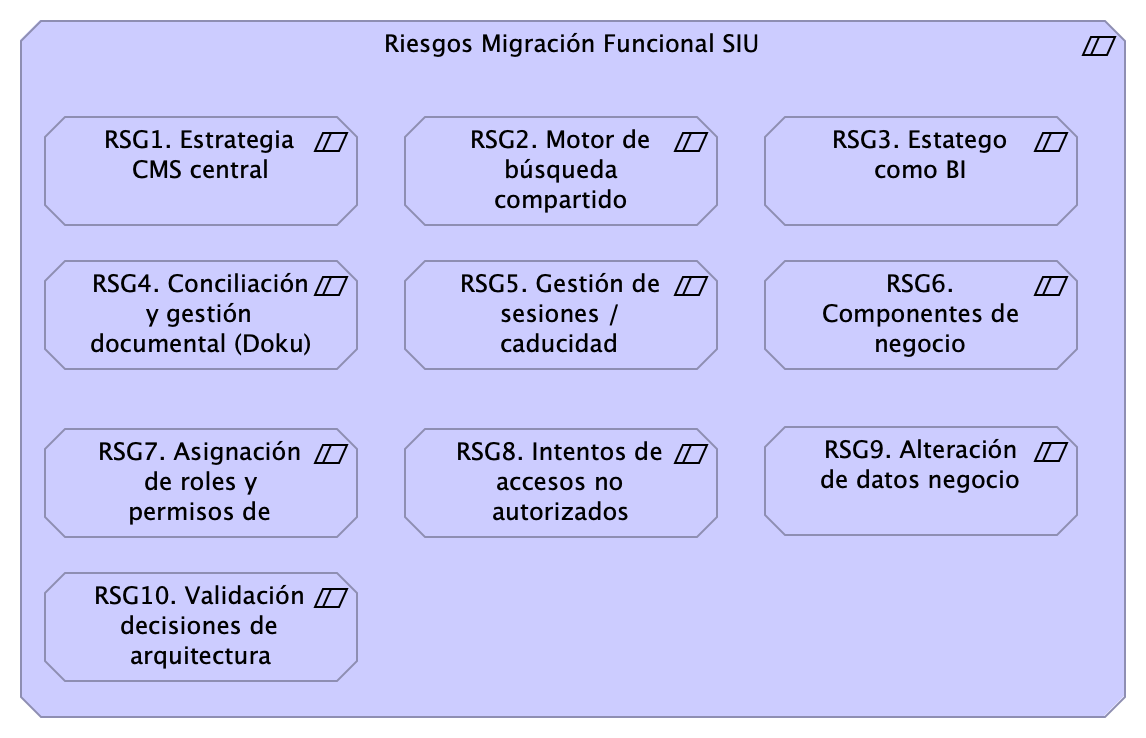
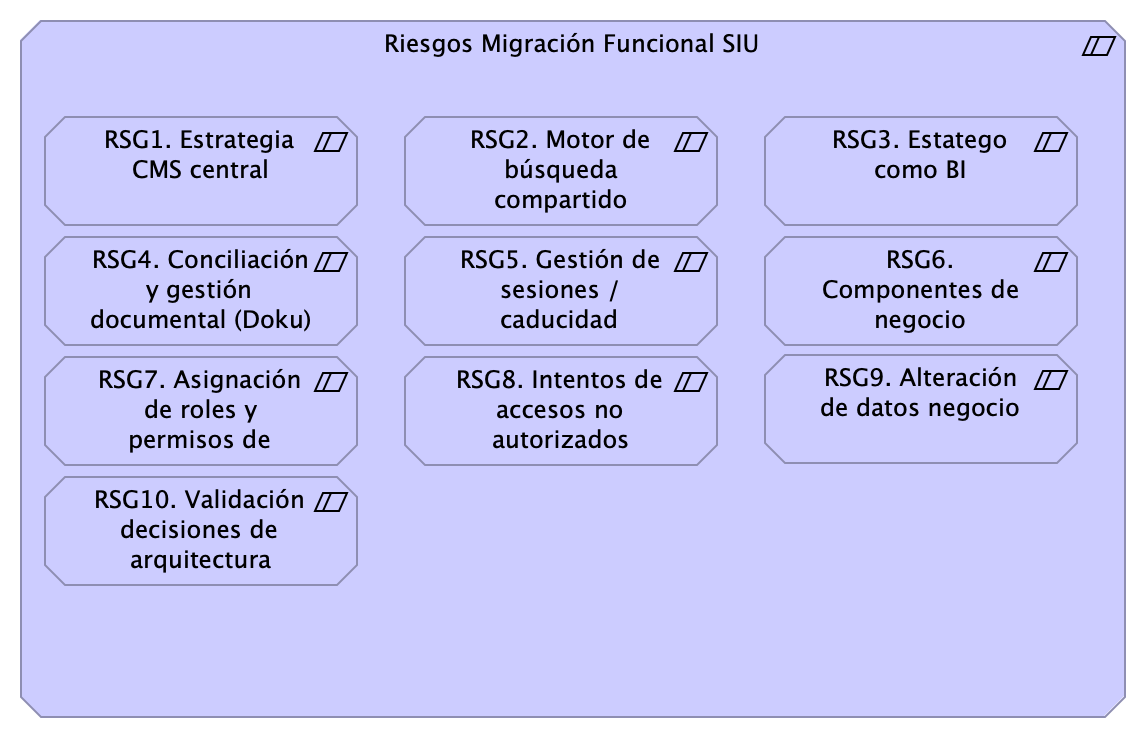
rsgs3

diff --git a/content/02n.a1.contenido.md b/content/02n.a1.contenido.md
@@ -541,6 +541,11 @@ Riesgos de la migración funcional:
 * RSG3. Estatego como BI
 * RSG4. Conciliación y Doku
 * RSG5. Gestión de sesiones / caducidad
+* RSG6. Componentes de negocio
+* RSG7. Asignación de roles y permisos de Acceso 
+* RSG8. Intentos de accesos no autorizados
+* RSG9. Alteración de datos negocio
+* RSG10. Validación decisiones de arquitectura
 
 ### Acciones de Mitigación
 
@@ -576,7 +581,9 @@ Riesgos de la migración funcional:
 Para mitigar el riesgo 10, RSG10. Validación decisiones de arquitectura, que tiene como agente de riesgo a los arquitectos del contratista, Softgic, y al de la entidad, PGN, es necesario iniciar un proceso de evaluación y aprobación de la arquitectura. La frecuencia de este proceso será eventual, y como mínimo una vez cada dos semanas.
 
 ### Valoración del Riesgo
+
 | Requisito      | Extensibilidad SUI |
+|:-------------|:------------------|
 | Descripción | Concentración de los componentes de negocio, misionales, del SUI protegidos de cambios provenientes de otros sistemas. Ver Patrón de Diseño Migración SUI, más adelante en el documento. |
 | Calidad sistémica | La extensibilidad que optimiza el diseño Migración SUI está dada por el intercambio de submódulos no misionales, como el gestor documental, sin afectación de los componentes misionales que este diseño protege. |
 
@@ -596,4 +603,4 @@ Table: Valoración del riesgo RSG10. Validación decisiones de arquitectura. Mig
 |**Supervisor contrato 078-2023**|stakeholder|||
 
 
-``Generated on: Mon Sep 18 2023 14:04:12 GMT-0500 (COT)``
+``Generated on: Mon Sep 18 2023 14:10:46 GMT-0500 (COT)``

diff --git a/content/Riesgos.2. Modelo Riesgo RSG10.md b/content/Riesgos.2. Modelo Riesgo RSG10.md
@@ -7,7 +7,7 @@ Para mitigar el riesgo 10, RSG10. Validación decisiones de arquitectura, que ti
 ### Valoración del Riesgo
 
 | Requisito      | Extensibilidad SUI |
-|:--------|:--------|
+|:-------------|:------------------|
 | Descripción | Concentración de los componentes de negocio, misionales, del SUI protegidos de cambios provenientes de otros sistemas. Ver Patrón de Diseño Migración SUI, más adelante en el documento. |
 | Calidad sistémica | La extensibilidad que optimiza el diseño Migración SUI está dada por el intercambio de submódulos no misionales, como el gestor documental, sin afectación de los componentes misionales que este diseño protege. |
 
@@ -15,7 +15,6 @@ Table: Valoración del riesgo RSG10. Validación decisiones de arquitectura. Mig
 
 
 ### Catálogo de Elementos
-
 | Name| Type| Description| Properties
 |:--------|:--------|:--------|:--------|
 |**Impacto**|assessment|||

diff --git a/content/Riesgos.1. Migración funcional.md b/content/Riesgos.1. Migración funcional.md
@@ -9,6 +9,11 @@ Riesgos de la migración funcional:
 * RSG3. Estatego como BI
 * RSG4. Conciliación y Doku
 * RSG5. Gestión de sesiones / caducidad
+* RSG6. Componentes de negocio
+* RSG7. Asignación de roles y permisos de Acceso 
+* RSG8. Intentos de accesos no autorizados
+* RSG9. Alteración de datos negocio
+* RSG10. Validación decisiones de arquitectura
 
 ### Acciones de Mitigación
 
